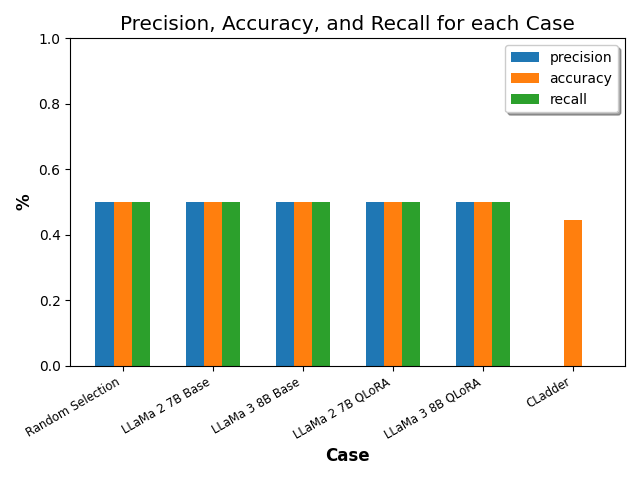
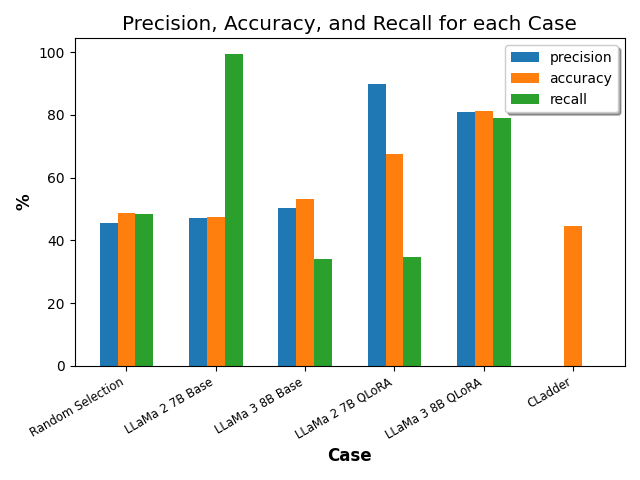
update Part 2 bar chart plotgenerator.py and the chart itself

diff --git a/Part2/plotgenerator.py b/Part2/plotgenerator.py
@@ -9,15 +9,15 @@ import matplotlib.pyplot as plt
 # results data
 results = [
     # random selection
-    {"precision": 0.5, "recall": 0.5, "accuracy": 0.5, "model_name": "Random Selection"},
+    {'model_name': "Random Selection", 'precision': 0.45616883116883117, 'recall': 0.48490077653149266, 'accuracy': 0.48579545454545453, 'f1_score': 0.47009619406106234},
     # llama2
-    {"precision": 0.5, "recall": 0.5, "accuracy": 0.5, "model_name": "LLaMa 2 7B Base"},
+    {"model_name": "LLaMa 2 7B Base", 'precision': 0.4721311475409836, 'recall': 0.993960310612597, 'accuracy': 0.4744318181818182, 'f1_score': 0.6401778271742151},
     # llama3
-    {"precision": 0.5, "recall": 0.5, "accuracy": 0.5, "model_name": "LLaMa 3 8B Base"},
+    {'model_name': "LLaMa 3 8B Base", 'precision': 0.5025510204081632, 'recall': 0.3399482312338223, 'accuracy': 0.53125, 'f1_score': 0.40555841482243954},
     # llama2 QLoRA
-    {"precision": 0.5, "recall": 0.5, "accuracy": 0.5, "model_name": "LLaMa 2 7B QLoRA"},
+    {'model_name': "LLaMa 2 7B QLoRA", 'precision': 0.8995535714285714, 'recall': 0.34771354616048317, 'accuracy': 0.6749188311688312, 'f1_score': 0.5015556938394523},
     # llama3 QLoRA
-    {"precision": 0.5, "recall": 0.5, "accuracy": 0.5, "model_name": "LLaMa 3 8B QLoRA"},
+    {'model_name': "LLaMa 3 8B QLoRA", 'precision': 0.808641975308642, 'recall': 0.7911993097497843, 'accuracy': 0.8137175324675324, 'f1_score': 0.7998255560401222},
     # CLadder
     {"precision": 0, "recall": 0, "accuracy": 0.4466, "model_name": "CLadder"},
 ]
@@ -34,7 +34,7 @@ fig1, ax1 = plt.subplots()
 temp_width = width * -2/3
 for metric in metrics:
     #plot each metric
-    res_metric = [item[metric] for item in results]
+    res_metric = [item[metric]*100 for item in results]
     bar = ax1.bar(indices + temp_width, res_metric, label=metric.capitalize(), width=width)
     temp_width += width
 
@@ -42,10 +42,8 @@ for metric in metrics:
 ax1.set_xlabel("Case", fontsize="large", fontweight="semibold", )
 ax1.set_ylabel("%", fontweight="semibold",fontsize="large")
 ax1.set_title("Precision, Accuracy, and Recall for each Case",fontsize="x-large")
-ax1.set_ylim(0, 1)
 ax1.set_xticks(indices + width / 3, bins, fontsize="small")
 plt.setp(ax1.get_xticklabels(), rotation=30, horizontalalignment="right")
-
 ax1.legend(metrics, loc="upper right", fancybox=True, shadow=True, ncols=1, bbox_to_anchor=(1,1))
 
 fig1.tight_layout()
